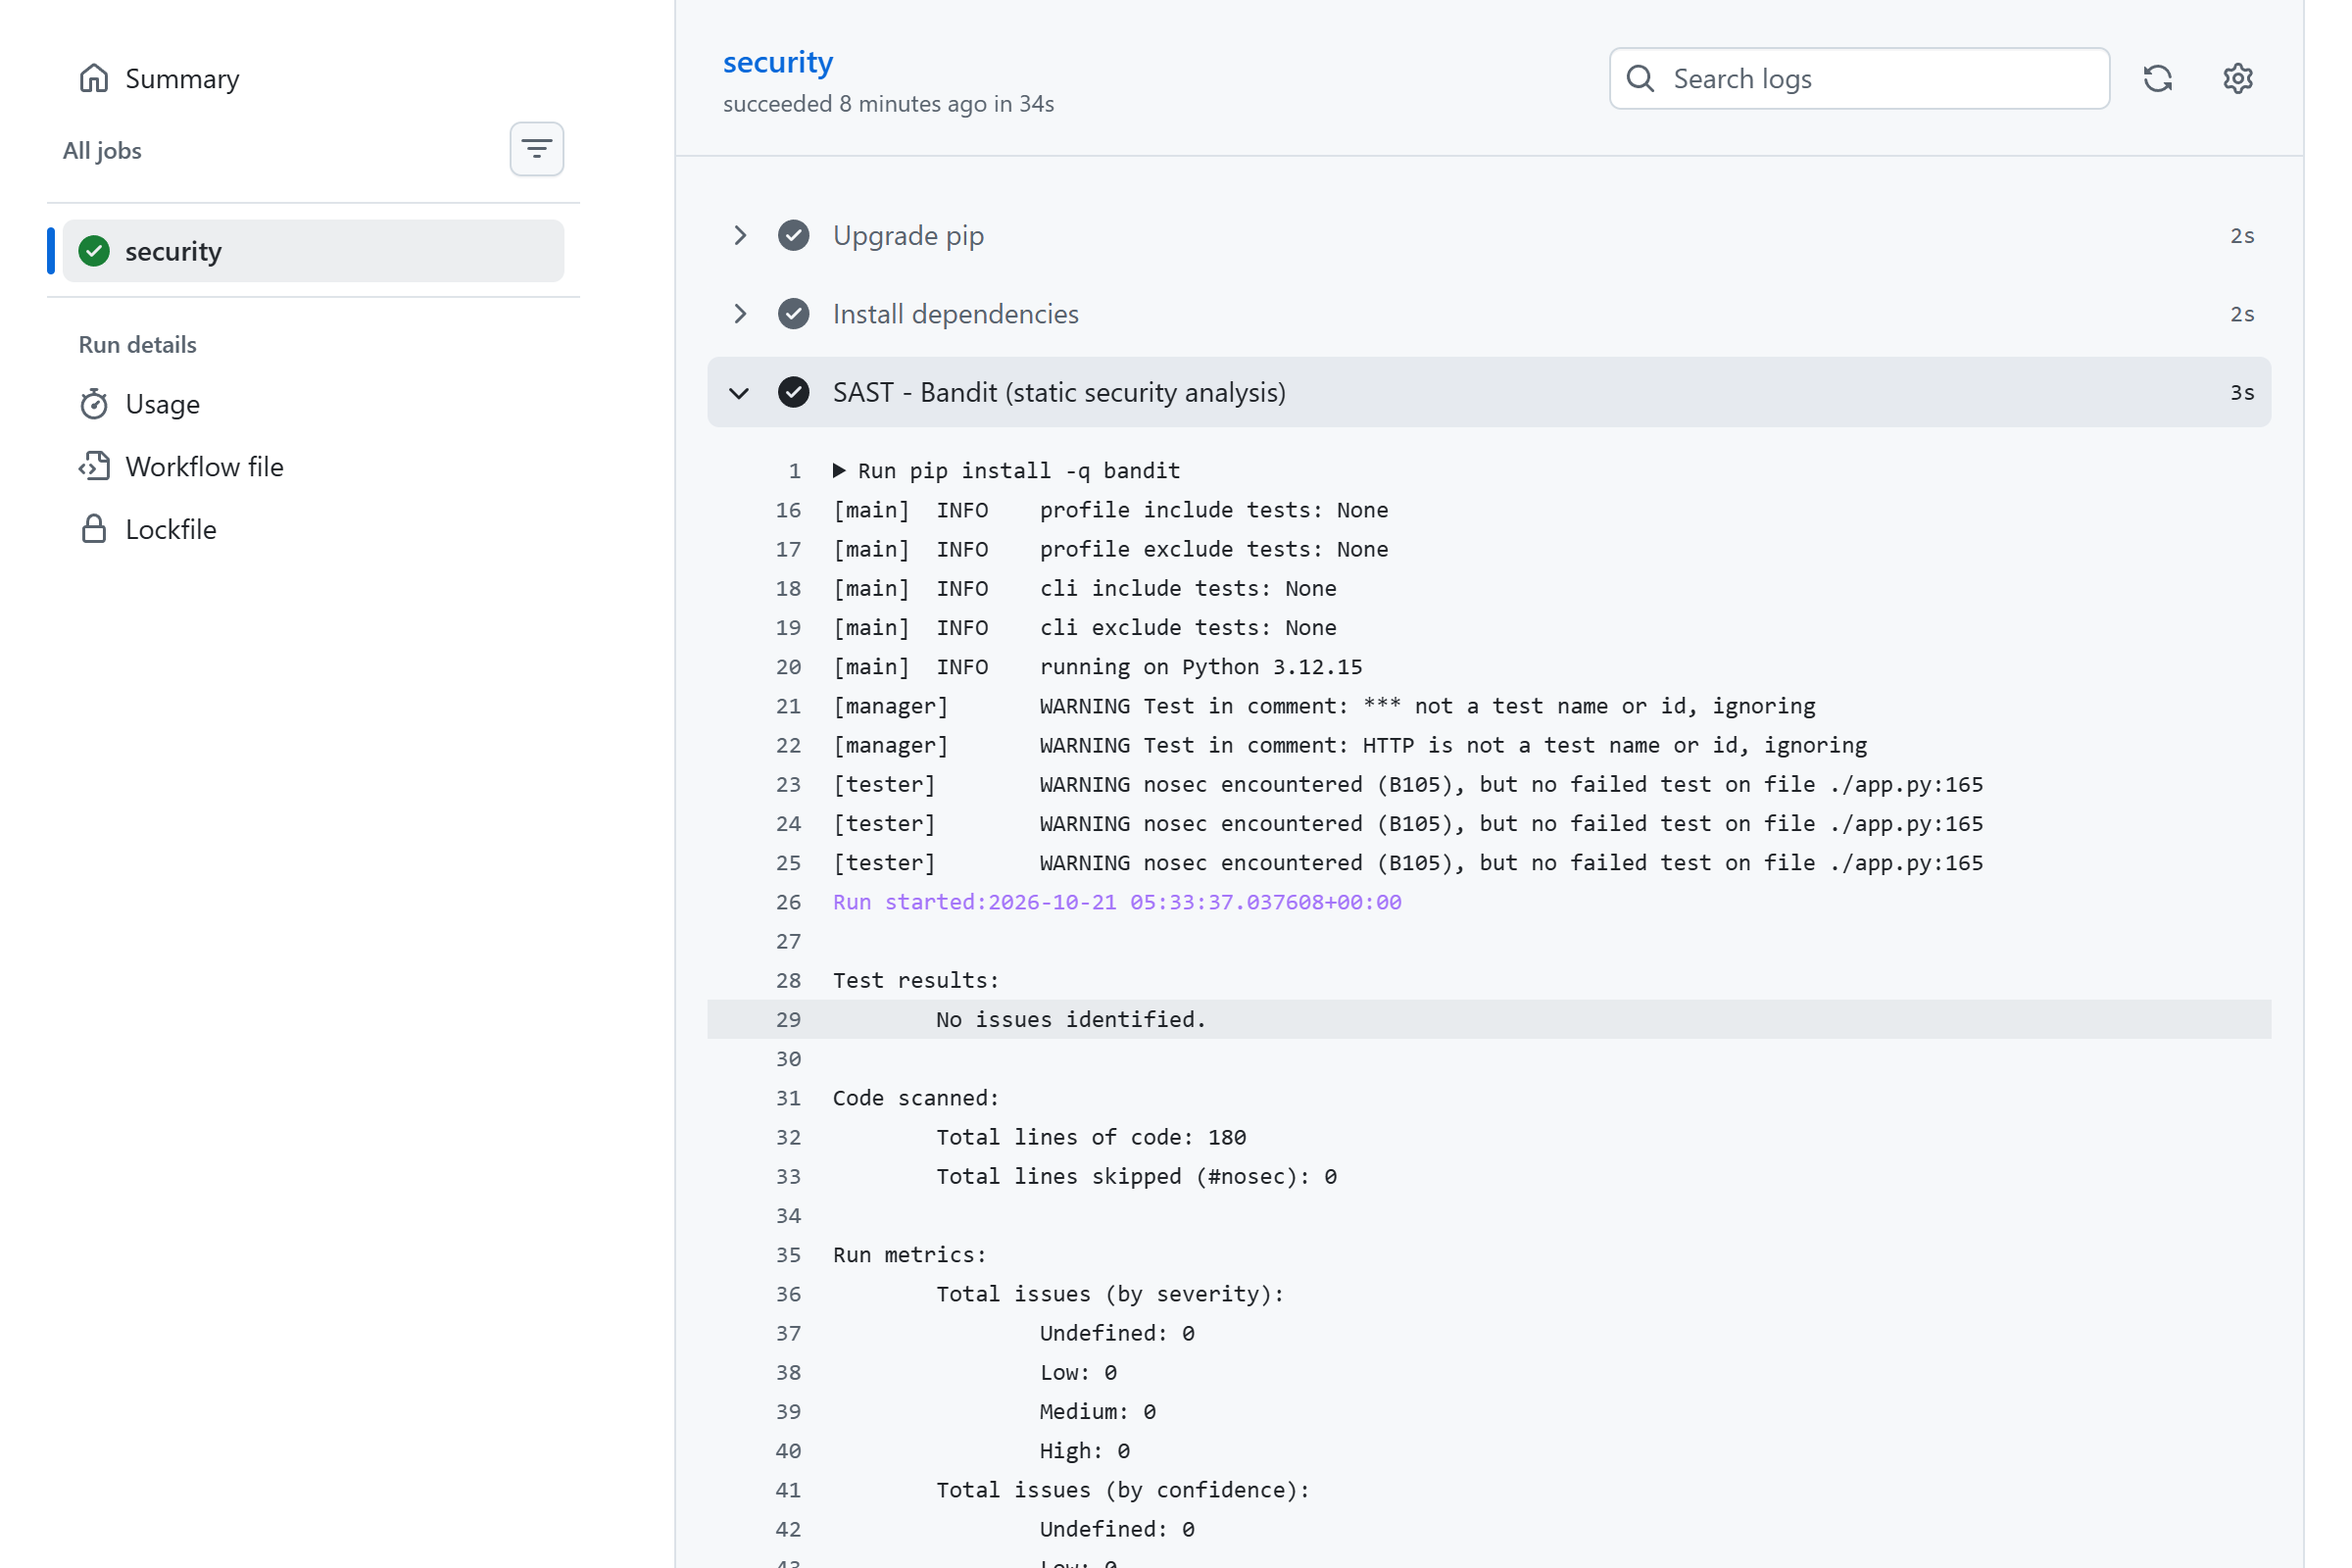
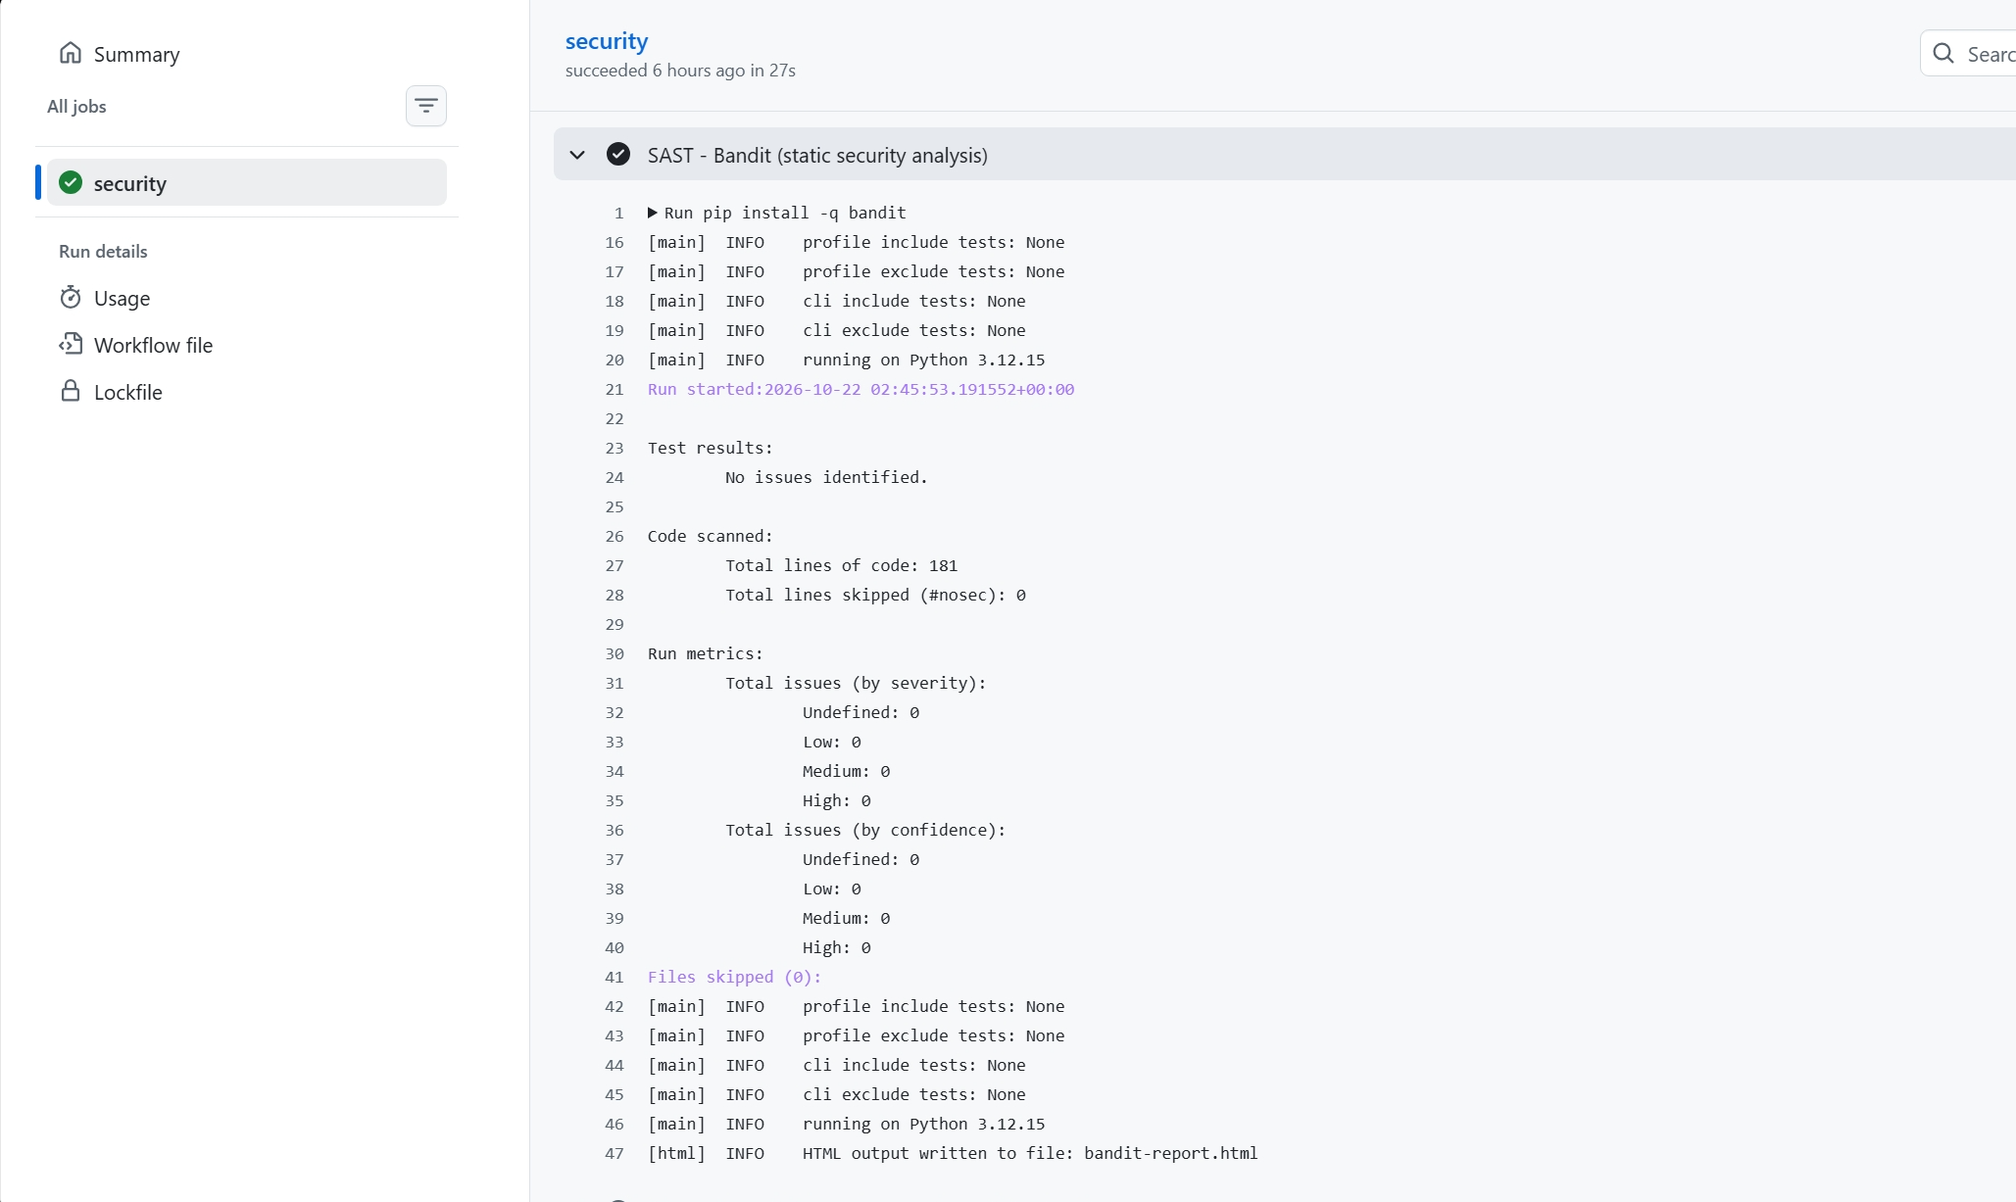
Docs: refresh CI evidence to run #33 (Bandit nosec warnings fixed)
Screenshots re-taken from the Actions page of run #33 (commit db5fd37):
the SAST step log now shows 'No issues identified' with 181 lines scanned,
every severity counter at zero and no nosec warnings; pip-audit still
reports no known vulnerabilities.

diff --git a/README.md b/README.md
@@ -62,18 +62,18 @@ Triggers on **every push / pull request**:
 2. **SCA — pip-audit** (PyPA): checks the pinned dependencies in `requirements.txt` against the PyPA vulnerability database; any known advisory fails the build.
 3. **Smoke test**: boots the API and asserts that `GET /api/data` without a token answers **401** — the service is up and the JWT auth boundary is active.
 
-**Screenshots — all taken from the Actions page of run #31:**
+**Screenshots — all taken from the Actions page of run #33:**
 
 ![CI pipeline passing](https://gcore.jsdelivr.net/gh/ChenYiming-aaa/network-security-work1@main/screenshots/ci-pipeline-success.png)
-*Run #31 — Status: Success, 37s total, one artifact (`bandit-report`) produced.*
+*Run #33 — Status: Success, 30s total, one artifact (`bandit-report`) produced.*
 
 ![Bandit SAST step log in GitHub Actions](https://gcore.jsdelivr.net/gh/ChenYiming-aaa/network-security-work1@main/screenshots/ci-bandit-log.png)
-*The SAST step log inside the run: Bandit reports "No issues identified", 180 lines of code scanned and every severity counter (Undefined/Low/Medium/High) at zero, then writes `bandit-report.html` for the artifact.*
+*The SAST step log inside the run: Bandit reports "No issues identified", 181 lines of code scanned and every severity counter (Undefined/Low/Medium/High) at zero, then writes `bandit-report.html` for the artifact.*
 
 ![pip-audit SCA step log in GitHub Actions](https://gcore.jsdelivr.net/gh/ChenYiming-aaa/network-security-work1@main/screenshots/ci-pip-audit-log.png)
 *The SCA step log inside the run: pip-audit reports "No known vulnerabilities found" for the pinned dependencies.*
 
-**Pipeline link (last successful run):** https://github.com/ChenYiming-aaa/network-security-work1/actions/runs/39550217994
+**Pipeline link (last successful run):** https://github.com/ChenYiming-aaa/network-security-work1/actions/runs/39713147953
 
 ---
 
@@ -191,7 +191,7 @@ The formal lab report — title page (lab number and title, variant, Surname and
 |---|---|
 | Public Git repository | https://github.com/ChenYiming-aaa/network-security-work1 |
 | This README | `README.md` |
-| CI pipeline link (last successful run) | https://github.com/ChenYiming-aaa/network-security-work1/actions/runs/39550217994 |
+| CI pipeline link (last successful run) | https://github.com/ChenYiming-aaa/network-security-work1/actions/runs/39713147953 |
 | Fixed files folder | `cve-2019-11043/fix/` (`docker-compose.yml`, original in `fix/original/`) |
 | CVE reproduction & verification evidence | `cve-2019-11043/evidence/` (logs + screenshots) |
 | Root cause analysis | `cve-2019-11043/root-cause-analysis.md` |
